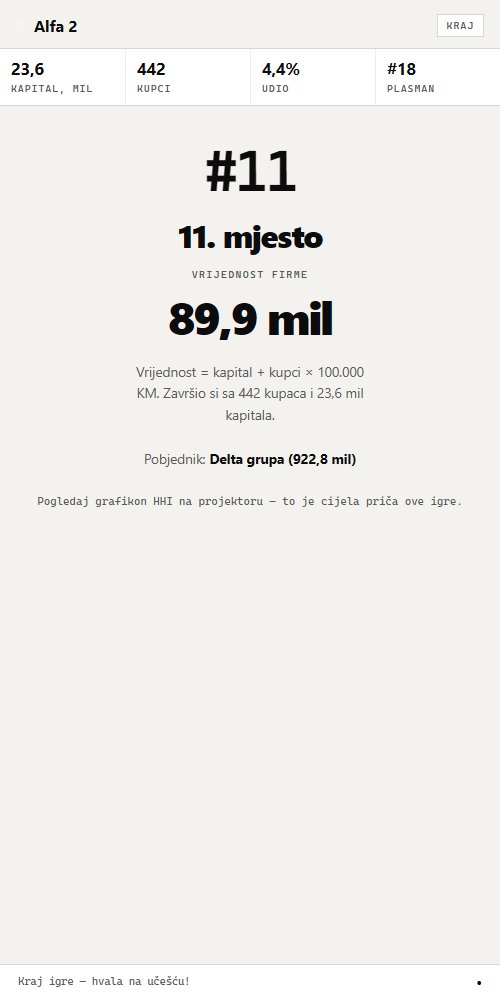
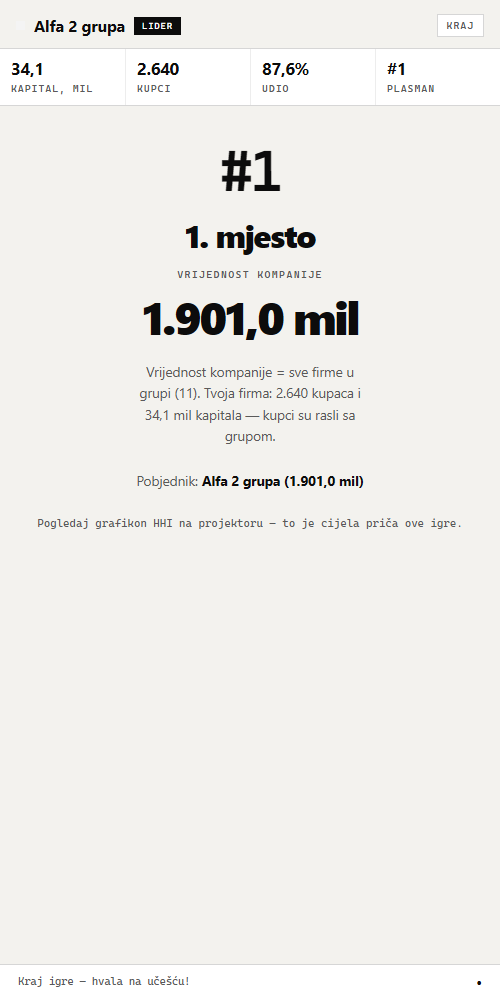
Tržišna moć: spajanje donosi +12% kupaca; rast vodi u monopol; Komisija bez kvoruma

diff --git a/server.js b/server.js
@@ -31,13 +31,14 @@ const HHI_HIGH = 2000;
 const MAX_PLAYERS = 60;
 const OFFER_TTL = 12000;         // ponuda za spajanje važi 12 s
 const OFFER_COOLDOWN = 5000;     // pauza između ponuda iste firme
+const MERGE_POWER = 0.12;        // tržišna moć: svako spajanje grupi donosi +12% kupaca (od rivala)
 
 const ROUNDS = [
   null,
   { n: 1, key: 'tap',    title: 'Borba za kupce', sub: 'Svako tapkanje je kupac',            dur: 25, results: 11 },
   { n: 2, key: 'price',  title: 'Cjenovni rat',    sub: 'Niska, srednja ili visoka cijena?',  dur: 20, results: 13 },
   { n: 3, key: 'invest', title: 'Investicije',    sub: 'Reklama, inovacija ili štednja?',     dur: 20, results: 14 },
-  { n: 4, key: 'merge',  title: 'Spajanja',       sub: 'Dogovaraj se — ili kupi konkurenciju',dur: 50, results: 13 },
+  { n: 4, key: 'merge',  title: 'Spajanja',       sub: `Spajanje grupi donosi +${Math.round(MERGE_POWER * 100)}% kupaca`, dur: 50, results: 13 },
   { n: 5, key: 'vote',   title: 'Komisija',       sub: 'Koga zabraniti?',                    dur: 25, results: 15 },
 ];
 
@@ -69,6 +70,7 @@ const META = {
   hhiHigh: HHI_HIGH,
   maxTaps: TAP_MAX,
   offerTtl: OFFER_TTL,
+  mergePower: MERGE_POWER,
   prices: PRICE_ORDER.map(k => ({ ...PRICES[k] })),
   investments: INVEST_ORDER.map(k => ({ ...INVESTS[k] })),
   rounds: ROUNDS.slice(1).map(r => ({ n: r.n, key: r.key, title: r.title, sub: r.sub, dur: r.dur })),
@@ -236,6 +238,7 @@ function computeHhi(groups) {
 function hhiZone(hhi) {
   if (hhi < HHI_LOW) return 'konkurencija';
   if (hhi <= HHI_HIGH) return 'umjereno';
+  if (hhi >= 4000) return 'monopol';
   return 'oligopol';
 }
 
@@ -579,10 +582,18 @@ function finishMerge() {
   const big = groups[0];
   if (big) lines.push(`Najveća grupa: ${big.name} — ${big.memberCount} firmi, ${pct(big.share)} tržišta, vrijednost ${fmt1(big.score)} mil KM`);
   lines.push(`Sa ${groups.reduce((s, g) => s + g.memberCount, 0)} firmi na ${groups.length} grupa.`);
-  lines.push('Spajanje ne mijenja kupce — mijenja KONCENTRACIJU. Isti kupci, manje igrača koji odlučuju o cijeni.');
+  const powerGain = merges.reduce((s, m) => s + (m.power || 0), 0);
+  if (powerGain > 0) {
+    lines.push(`Tržišna moć: spajanja su najvećim grupama donijela +${fmt0(powerGain)} kupaca na račun rivala.`);
+  }
+  lines.push(`Pravilo: svako spajanje grupi donosi +${Math.round(MERGE_POWER * 100)}% kupaca. Rast udjela hrani dalji rast — zato koncentracija ide samo gore.`);
   newNews(`Runda 4: ${merges.length} spajanja · ${groups.length} grupa na tržištu`, 'merge');
+  const topShare = groups[0] ? groups[0].share : 0;
+  const headline = merges.length
+    ? (topShare >= 0.7 ? `${merges.length} spajanja — tržište je postalo monopol` : `${merges.length} spajanja — tržište se skuplja`)
+    : 'Nema spajanja';
   return {
-    headline: merges.length ? `${merges.length} spajanja — tržište se skuplja` : 'Nema spajanja',
+    headline,
     lines,
     table: groups.slice(0, 5).map(g => ({
       name: g.name, color: g.color,
@@ -619,42 +630,38 @@ function finishVote() {
   const lines = [];
   lines.push(`Glasalo je ${votesCast} od ${players.length} firmi.`);
   let banned = null;
+  const biggest = preGroups[0];
+  // Regulatorno zarobljavanje: kad najveća grupa drži većinu firmi, Komisija nema kvorum.
+  const blocked = !!biggest && biggest.memberCount > players.length / 2;
+
   if (candidates.length >= 2) {
     const ranked = candidates.map(c => ({ ...c, votes: tally.get(c.groupId) || 0 }))
       .sort((a, b) => b.votes - a.votes || b.score - a.score);
-    const voteWinner = ranked[0].votes > 0 ? ranked[0] : null;
     for (const c of ranked) lines.push(`${c.name}: ${c.votes} glasova — ${c.members} firmi, ${pct(c.share)} tržišta`);
     const tied = ranked.filter(c => c.votes === ranked[0].votes);
-    if (voteWinner && tied.length > 1) {
-      lines.push(`Neriješeno (${ranked[0].votes} glasova) — presuđuje veličina grupe.`);
-    }
-    const all = groupList();
-    const dominant = all.find(g => g.memberCount > 1 && g.share > 0.6);
-    if (dominant && (!voteWinner || voteWinner.groupId !== dominant.id)) {
-      banned = {
-        groupId: dominant.id, name: dominant.name, color: dominant.color,
-        votes: tally.get(dominant.id) || 0, members: dominant.memberCount, auto: true,
-      };
-      lines.push(`${dominant.name} kontroliše ${pct(dominant.share)} tržišta — Komisija po službenoj dužnosti zabranjuje dominantnu grupu.`);
-      newNews(`KOMISIJA: dominantna grupa ${dominant.name} (${pct(dominant.share)}) je raspuštena!`, 'ban');
-      breakupGroup(dominant.id);
-    } else if (voteWinner) {
-      banned = voteWinner;
-      breakupGroup(banned.groupId);
-      lines.push(`Komisija je zabranila ${banned.name}. Grupa se raspada na firme kakve su bile prije spajanja, uz kaznu od 30% kapitala.`);
-      newNews(`KOMISIJA: ${banned.name} je zabranjena! Grupa se raspada, kazna 30% kapitala.`, 'ban');
+    if (tied.length > 1) lines.push(`Neriješeno (${ranked[0].votes} glasova) — presuđuje veličina grupe.`);
+
+    if (blocked) {
+      lines.push(`${biggest.name} ima ${biggest.memberCount} od ${players.length} firmi — većina je u najvećoj grupi, Komisija nema kvorum za zabranu.`);
+      lines.push(`Monopol ostaje: rast je prešao tačku poslije koje ga regulacija ne može zaustaviti.`);
+      newNews(`KOMISIJA: nema kvorum — ${biggest.name} (${pct(biggest.share)} tržišta, ${biggest.memberCount} firmi) ostaje!`, 'ban');
     } else {
-      lines.push('Nije bilo dovoljno glasova — niko nije zabranjen.');
+      const voteWinner = ranked[0].votes > 0 ? ranked[0] : null;
+      if (voteWinner) {
+        banned = voteWinner;
+        breakupGroup(banned.groupId);
+        lines.push(`Komisija je zabranila ${banned.name}. Grupa se raspada na firme kakve su bile prije spajanja, uz kaznu od 30% kapitala.`);
+        newNews(`KOMISIJA: ${banned.name} je zabranjena! Grupa se raspada, kazna 30% kapitala.`, 'ban');
+      } else {
+        lines.push('Nije bilo dovoljno glasova — niko nije zabranjen. Monopol ostaje.');
+      }
     }
   } else {
-    const all = groupList();
-    if (all.length === 1 && all[0].memberCount > 1) {
-      const only = all[0];
-      lines.push('Na tržištu je ostala samo jedna grupa — Komisija nema koga da bira, pa monopol raspada po službenoj dužnosti.');
-      breakupGroup(only.id);
-      lines.push(`${only.name} se raspada na firme kakve su bile prije spajanja, uz kaznu od 30% kapitala.`);
-      newNews(`KOMISIJA: monopol ${only.name} je raspušten po službenoj dužnosti!`, 'ban');
-      banned = { groupId: only.id, name: only.name, color: only.color, votes: 0, members: only.memberCount, auto: true };
+    const only = preGroups[0];
+    if (only && only.memberCount > 1) {
+      lines.push(`Na tržištu je samo jedna grupa — ${only.name} je monopol (${only.memberCount} firmi, ${pct(only.share)} tržišta).`);
+      lines.push('Komisija ga ne može razbiti: sve firme su već u njemu. Rast je završio u monopolu.');
+      newNews(`KOMISIJA: ${only.name} je jedina grupa — monopol ostaje!`, 'ban');
     } else {
       lines.push('Nema dovoljno grupa za glasanje — Komisija nije nikoga zabranila.');
     }
@@ -820,16 +827,46 @@ function mergeGroups(o, fromGroup, toGroup, kind) {
     if (off.status !== 'pending' || off.id === o.id) continue;
     if (off.toGroupId === toGroup.id || off.fromGroupId === toGroup.id) off.status = 'expired';
   }
+  // TRŽIŠNA MOĆ: spojena grupa privlači kupce od rivala — zato rast vodi u monopol.
+  const power = applyMergePower(fromGroup.id);
   const nh = buildGroups();
   const g = nh.get(fromGroup.id);
   const share = g ? g.customers / TOTAL_CUSTOMERS : 0;
-  const ev = { type: 'merge', kind, from: fromGroup.name, to: toGroup.name, members: g ? g.memberCount : all.length, at: t };
+  const ev = { type: 'merge', kind, from: fromGroup.name, to: toGroup.name, members: g ? g.memberCount : all.length, at: t, power: power.gain };
   game.roundEvents.push(ev);
   const text = kind === 'join'
     ? `${toGroup.name} se pridružuje ${fromGroup.name}`
     : `${fromGroup.name} preuzima ${toGroup.name}`;
   newNews(`${text} — ${ev.members} firmi, ${pct(share)} tržišta`, 'merge');
-  console.log(`[spajanje] ${fromGroup.name} + ${toGroup.name} -> ${ev.members} firmi (${pct(share)})`);
+  if (power.gain > 0) {
+    newNews(`Tržišna moć: ${fromGroup.name} +${fmt0(power.gain)} kupaca od rivala — grupa sada drži ${pct(share)} tržišta`, 'merge');
+  }
+  console.log(`[spajanje] ${fromGroup.name} + ${toGroup.name} -> ${ev.members} firmi (${pct(share)}), moć +${power.gain}`);
+}
+
+/* Tržišna moć: veća grupa privlači kupce manjih (mrežni efekat / ekonomija obima).
+   Gubitak ide proporcionalno od svih rivala, dobit proporcionalno članovima grupe. */
+function applyMergePower(groupId) {
+  const players = [...game.players.values()];
+  const groups = buildGroups();
+  const g = groups.get(groupId);
+  if (!g || !g.members.length) return { gain: 0 };
+  const memberIds = new Set(g.members.map(p => p.id));
+  const gTotal = g.customers;
+  const others = players.filter(p => !memberIds.has(p.id));
+  const othersTotal = others.reduce((s, p) => s + p.customers, 0);
+  if (gTotal <= 0 || othersTotal <= 0) return { gain: 0 };
+  const take = Math.min(gTotal * MERGE_POWER, othersTotal * 0.5);
+  if (take < 1) return { gain: 0 };
+  const weights = players.map(p => {
+    if (memberIds.has(p.id)) {
+      return { id: p.id, w: p.customers + take * (p.customers / gTotal) };
+    }
+    return { id: p.id, w: Math.max(0, p.customers * (1 - take / othersTotal)) };
+  });
+  const alloc = allocateCustomers(weights);
+  for (const p of players) p.customers = alloc.get(p.id) || 0;
+  return { gain: Math.round(take) };
 }
 
 function expireOffers() {

diff --git a/public/player.js b/public/player.js
@@ -141,10 +141,12 @@ function hintText() {
 
 function updateStats() {
   const me = S.me;
+  const inGroup = me.group && me.group.members > 1;
+  const rank = (inGroup && me.groupRank) ? me.groupRank : me.rank;
   $('statCapital').textContent = fmt1(me.capital);
   $('statCustomers').textContent = fmt0(me.customers);
-  $('statShare').textContent = pct(me.share);
-  $('statRank').textContent = me.rank ? '#' + me.rank : '—';
+  $('statShare').textContent = pct(inGroup ? me.group.share : me.share);
+  $('statRank').textContent = rank ? '#' + rank : '—';
 }
 
 /* -------------------------------- STAGE ----------------------------------- */
@@ -421,7 +423,7 @@ function buildMerge() {
 
     root.append(h('div', { class: 'round-head' },
       h('h2', {}, 'Spajanja'),
-      h('p', {}, 'Pregovarajte uživo, pa pošaljite ponudu. Spajanje objedinjuje kapital i kupce — i pravi metu za Komisiju.')
+      h('p', {}, 'Pregovarajte, pa pošaljite ponudu. Svako spajanje grupi donosi +' + Math.round((S.meta.mergePower || 0.12) * 100) + '% kupaca od rivala — veći rast znači više kupaca.')
     ));
 
     // grupa
@@ -657,13 +659,19 @@ function buildFinal() {
   const me = S.me;
   const place = me.groupRank || me.rank;
   const winner = S.final && S.final.winner;
+  const inGroup = me.group && me.group.members > 1;
+  const value = inGroup ? me.group.score : me.score;
+  const note = inGroup
+    ? 'Vrijednost kompanije = sve firme u grupi (' + me.group.members + '). Tvoja firma: ' +
+      fmt0(me.customers) + ' kupaca i ' + fmt1(me.capital) + ' mil kapitala — kupci su rasli sa grupom.'
+    : 'Vrijednost = kapital + kupci × 100.000 KM. Završio si sa ' + fmt0(me.customers) +
+      ' kupaca i ' + fmt1(me.capital) + ' mil kapitala.';
   const root = h('div', { class: 'final-box' },
     h('div', { class: 'final-place-num' }, '#' + place),
     h('div', { class: 'final-place' }, place + '. mjesto'),
-    h('div', { class: 'final-label' }, 'vrijednost firme'),
-    h('div', { class: 'final-value' }, fmt1(me.score) + ' mil'),
-    h('div', { class: 'final-note' }, 'Vrijednost = kapital + kupci × 100.000 KM. ' +
-      'Završio si sa ' + fmt0(me.customers) + ' kupaca i ' + fmt1(me.capital) + ' mil kapitala.'),
+    h('div', { class: 'final-label' }, inGroup ? 'vrijednost kompanije' : 'vrijednost firme'),
+    h('div', { class: 'final-value' }, fmt1(value) + ' mil'),
+    h('div', { class: 'final-note' }, note),
     h('div', { class: 'final-winner' }, winner ? ['Pobjednik: ', h('b', {}, winner.name + ' (' + fmt1(winner.score) + ' mil)')] : ''),
     h('div', { class: 'note' }, 'Pogledaj grafikon HHI na projektoru — to je cijela priča ove igre.')
   );

diff --git a/public/screen.js b/public/screen.js
@@ -550,14 +550,16 @@ function updateOverlay() {
       const survived = last >= maxH * 0.98;
       let arc;
       if (survived) {
-        arc = `Za 6 minuta tržište je otišlo od konkurencije (HHI <b>${fmt0(first)}</b>) do oligopola ` +
-          `(HHI <b>${fmt0(maxH)}</b>), a Komisija ga nije oborila — najveća grupa je preživjela.`;
+        arc = `Za 6 minuta tržište je otišlo od konkurencije (HHI <b>${fmt0(first)}</b>) do <b>monopola</b> ` +
+          `(HHI <b>${fmt0(maxH)}</b>) — najveća grupa je preživjela, a Komisija je nije mogla zaustaviti. ` +
+          `Rast udjela je hranio dalji rast.`;
       } else if (dropped) {
-        arc = `Vi ste za 6 minuta napravili tržište od konkurencije (HHI <b>${fmt0(first)}</b>) do oligopola ` +
-          `(HHI <b>${fmt0(maxH)}</b>) — i nazad na HHI <b>${fmt0(last)}</b>.`;
+        arc = `Rast je za 6 minuta doveo tržište od konkurencije (HHI <b>${fmt0(first)}</b>) do monopola ` +
+          `(HHI <b>${fmt0(maxH)}</b>); Komisija je tek na kraju oborila koncentraciju na HHI <b>${fmt0(last)}</b> — ` +
+          `prekasno da promijeni priču.`;
       } else {
-        arc = `Za 6 minuta tržište je otišlo od konkurencije (HHI <b>${fmt0(first)}</b>) do oligopola ` +
-          `(HHI <b>${fmt0(maxH)}</b>), a Komisija ga je spustila samo na HHI <b>${fmt0(last)}</b> — najveća grupa je preživjela.`;
+        arc = `Rast je za 6 minuta doveo tržište od konkurencije (HHI <b>${fmt0(first)}</b>) do monopola ` +
+          `(HHI <b>${fmt0(maxH)}</b>), a Komisija je kaznila manju grupu — najveća je preživjela na HHI <b>${fmt0(last)}</b>.`;
       }
       story.innerHTML = arc + ` Isti pragovi kao na slajdu: <b>1.000</b> i <b>2.000</b>.`;
     }

diff --git a/public/common.js b/public/common.js
@@ -51,10 +51,12 @@ function zoneKey(hhi, meta) {
   return 'red';
 }
 function zoneName(hhi, meta) {
+  if (hhi >= 4000) return 'monopol';
   const k = zoneKey(hhi, meta);
   return k === 'green' ? 'konkurencija' : k === 'yellow' ? 'umjereno' : 'oligopol';
 }
 function zoneHint(hhi, meta) {
+  if (hhi >= 4000) return 'monopol — jedna grupa kontroliše tržište';
   const k = zoneKey(hhi, meta);
   return k === 'green'
     ? 'konkurencija — mnogo malih firmi'

diff --git a/public/screen.html b/public/screen.html
@@ -63,7 +63,7 @@
         <div class="gauge-zones">
           <span style="left:16.66%">KONKURENCIJA</span>
           <span style="left:50%">UMJERENO</span>
-          <span style="left:83.33%">OLIGOPOL</span>
+          <span style="left:83.33%">OLIGOPOL / MONOPOL</span>
         </div>
         <div class="gauge-foot">
           <b class="num" id="hhiValue">0</b>
